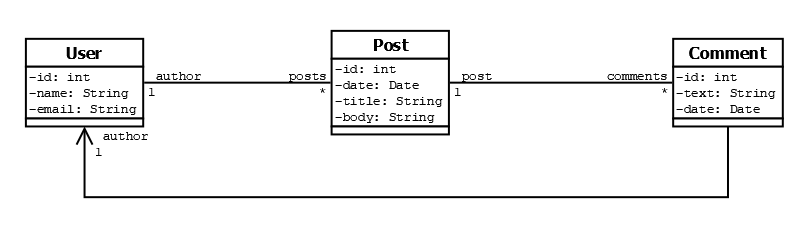
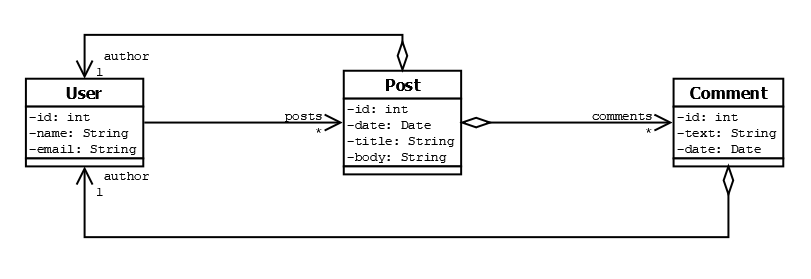
Criando entity Post com User aninhado

Changed region(s): [[0.0309, 0.1172, 0.9889, 0.8787]]

diff --git a/src/main/java/com/project_springboot/springbootmongodb/domain/Post.java b/src/main/java/com/project_springboot/springbootmongodb/domain/Post.java
@@ -1,0 +1,95 @@
+package com.project_springboot.springbootmongodb.domain;
+
+import java.io.Serializable;
+import java.util.Date;
+
+import org.springframework.data.annotation.Id;
+import org.springframework.data.mongodb.core.mapping.Document;
+
+@Document
+public class Post implements Serializable{
+    @Id
+    private String id;
+    private Date data;
+    private String title;
+    private String body;
+    private User author;
+
+    public Post(){  
+    }
+
+    public Post(String id, Date data, String title, String body, User author) {
+        this.id = id;
+        this.data = data;
+        this.title = title;
+        this.body = body;
+        this.author = author;
+    }
+
+    public String getId() {
+        return id;
+    }
+
+    public void setId(String id) {
+        this.id = id;
+    }
+
+    public Date getData() {
+        return data;
+    }
+
+    public void setData(Date data) {
+        this.data = data;
+    }
+
+    public String getTitle() {
+        return title;
+    }
+
+    public void setTitle(String title) {
+        this.title = title;
+    }
+
+    public String getBody() {
+        return body;
+    }
+
+    public void setBody(String body) {
+        this.body = body;
+    }
+
+    public User getAuthor() {
+        return author;
+    }
+
+    public void setAuthor(User author) {
+        this.author = author;
+    }
+
+    @Override
+    public int hashCode() {
+        final int prime = 31;
+        int result = 1;
+        result = prime * result + ((id == null) ? 0 : id.hashCode());
+        return result;
+    }
+
+    @Override
+    public boolean equals(Object obj) {
+        if (this == obj)
+            return true;
+        if (obj == null)
+            return false;
+        if (getClass() != obj.getClass())
+            return false;
+        Post other = (Post) obj;
+        if (id == null) {
+            if (other.id != null)
+                return false;
+        } else if (!id.equals(other.id))
+            return false;
+        return true;
+    }
+
+    
+}

diff --git a/src/main/java/com/project_springboot/springbootmongodb/config/Intantiation.java b/src/main/java/com/project_springboot/springbootmongodb/config/Intantiation.java
@@ -1,12 +1,16 @@
 package com.project_springboot.springbootmongodb.config;
 
+import java.text.SimpleDateFormat;
 import java.util.Arrays;
+import java.util.TimeZone;
 
 import org.springframework.beans.factory.annotation.Autowired;
 import org.springframework.boot.CommandLineRunner;
 import org.springframework.context.annotation.Configuration;
 
+import com.project_springboot.springbootmongodb.domain.Post;
 import com.project_springboot.springbootmongodb.domain.User;
+import com.project_springboot.springbootmongodb.repositories.PostRepository;
 import com.project_springboot.springbootmongodb.repositories.UserRepository;
 
 @Configuration
@@ -14,15 +18,26 @@ public class Intantiation implements CommandLineRunner{
     @Autowired
     private UserRepository userRepository;
 
+    @Autowired
+    private PostRepository postRepository;
+
     @Override
     public void run(String... args) throws Exception {
+        SimpleDateFormat sdf = new SimpleDateFormat("dd/MM/yyyy");
+        sdf.setTimeZone(TimeZone.getTimeZone("GMT"));
+
         userRepository.deleteAll();
+        postRepository.deleteAll();
 
         User maria = new User(null, "Maria Brown", "maria@gmail.com");
         User alex = new User(null, "Alex Green", "alex@gmail.com");
         User bob = new User(null, "Bob Grey", "bob@gmail.com");
 
+        Post post1 = new Post(null, sdf.parse("21/03/2018"), "Partiu viagem", "Vou viajar para São Paulo. Abraços!", maria);
+        Post post2 = new Post(null, sdf.parse("23/03/2018"), "Bom dia", "Acordei feliz hoje!", maria);
+
         userRepository.saveAll(Arrays.asList(maria, alex, bob));
+        postRepository.saveAll(Arrays.asList(post1, post2));
         
     }
     

diff --git a/src/main/java/com/project_springboot/springbootmongodb/repositories/PostRepository.java b/src/main/java/com/project_springboot/springbootmongodb/repositories/PostRepository.java
@@ -1,0 +1,11 @@
+package com.project_springboot.springbootmongodb.repositories;
+
+import org.springframework.data.mongodb.repository.MongoRepository;
+import org.springframework.stereotype.Repository;
+
+import com.project_springboot.springbootmongodb.domain.Post;
+
+@Repository
+public interface PostRepository extends MongoRepository<Post, String>{
+    
+}
